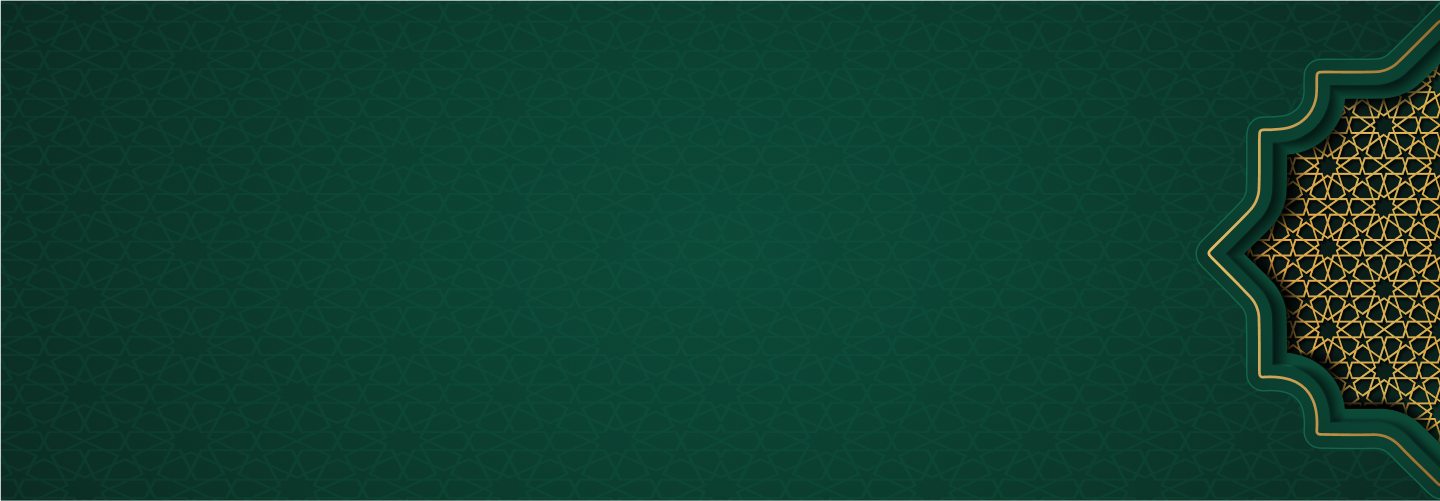
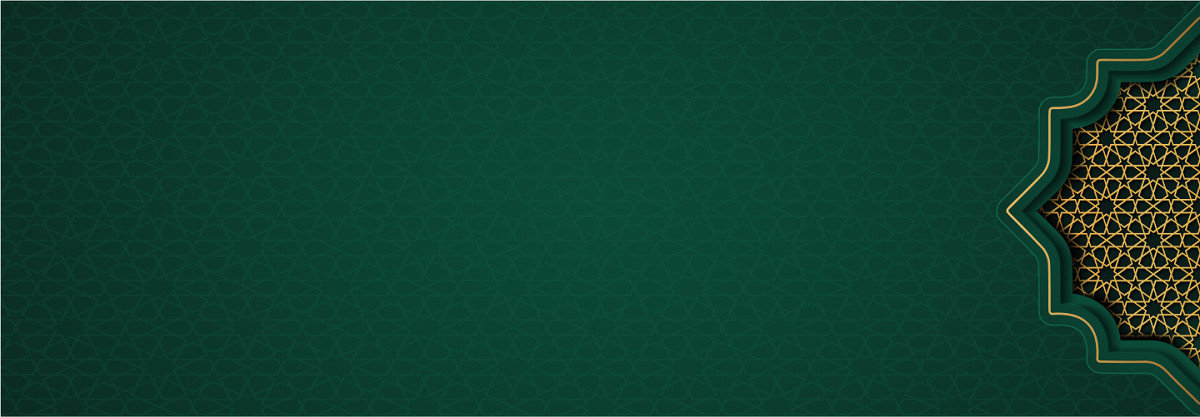
Invest page FAQ section added with responsive, Islamic page hero section done with responsive, capbay islamic done with responsive

Changed region(s): [[0.8942, 0.1871, 1.0, 0.8417]]

diff --git a/src/pages/investment-islamic/InvestmentIslamicHero.jsx b/src/pages/investment-islamic/InvestmentIslamicHero.jsx
@@ -1,0 +1,46 @@
+import { TbHeadset } from "react-icons/tb";
+import HeroBg from "../../assets/InvestIslamicHero.png";
+import Heading1 from "../../components/Heading1";
+import Heading2 from "../../components/Heading2";
+import IconButton from "../../components/IconButton";
+import PrimaryButton from "../../components/PrimaryButton";
+import SmallText from "../../components/SmallText";
+import Title from "../../components/Title";
+import Sheild from "../../icon/Sheild";
+import SectionLayout from "../../ui/SectionLayout";
+function InvestmentIslamicHero() {
+  return (
+    <div
+      className="bg-cover bg-right w-full tab:h-[450px]"
+      style={{ backgroundImage: `url(${HeroBg})` }}
+    >
+      <SectionLayout bg={"transparent"}>
+        <div className="w-3/5">
+          <Heading2 color={"text-white"}>FINTECH P2P Islamic</Heading2>
+          <Heading1 color={"text-[#4abc40]"}>
+            Shariah Option Available Now!
+          </Heading1>
+        </div>
+        <div className="w-3/4 sm:w-5/6 tab:w-3/5 py-5">
+          <Title color={"white"}>
+            Invest Responsibly, Aligning Beliefs with Smart Investment
+          </Title>
+          <div className="flex gap-2 items-center">
+            <Sheild />
+            <SmallText color={`[#4abc40]`}>
+              Regulated by Securities Commission Bangladesh
+            </SmallText>
+          </div>
+        </div>
+        <div className="flex gap-4 py-6 items-center">
+          <PrimaryButton bg={`accent`}>invest now</PrimaryButton>
+          <IconButton text={"contact us"} bg={`accent`}>
+            <TbHeadset className="font-semibold text-lg" />
+          </IconButton>
+        </div>
+      </SectionLayout>
+    </div>
+  );
+}
+
+export default InvestmentIslamicHero;

diff --git a/src/pages/investment-islamic/CapBayP2P.jsx b/src/pages/investment-islamic/CapBayP2P.jsx
@@ -1,0 +1,41 @@
+import SectionLayout from "../../ui/SectionLayout";
+import Peer from "../../assets/peer.png";
+import SubTitle from "../../components/SubTitle";
+import Text from "../../components/Text";
+
+function CapBayP2P() {
+  return (
+    <SectionLayout>
+      <div className="w-full flex flex-wrap sm:flex-nowrap items-center py-5 tab:py-8 px-4 tab:px-0">
+        <div className="bg-white shadow-allSide shadow-gray-200 rounded-md w-full sm:w-1/3 px-6 mb-4 sm:mb-0 sm:px-0">
+          <img
+            src={Peer}
+            alt="peer illustrator"
+            className="object-cover rounded-md m-auto"
+          />
+        </div>
+        <div className="w-full sm:w-2/3 flex justify-end">
+          <div className="px-2 sm:px-8 tab:px-0 tab:w-5/6">
+            <SubTitle
+              align={"text-center sm:text-left"}
+              color={`text-[#0c6304]`}
+            >
+              CapBay P2P Islamic
+            </SubTitle>
+            <Text align={"text-center sm:text-left"} padding={"py-2"}>
+              Your preferred P2P platform now offers a fully automated
+              Shariah-compliant option!
+            </Text>
+            <Text align={"text-center sm:text-left"} padding={"py-2"}>
+              Begin your investment journey with CapBay P2P Islamic today for a
+              fully Shariah-compliant portfolio aligned with ethical financial
+              principles and competitive returns.
+            </Text>
+          </div>
+        </div>
+      </div>
+    </SectionLayout>
+  );
+}
+
+export default CapBayP2P;

diff --git a/src/ui/Home/WhyFintech.jsx b/src/ui/Home/WhyFintech.jsx
@@ -26,7 +26,11 @@ function WhyFintech() {
                 <Webhook />
               </div>
             </div>
-            <Heading2 align={"text-center"} color={"white"} padding={"pt-2"}>
+            <Heading2
+              align={"text-center"}
+              color={"text-white"}
+              padding={"pt-2"}
+            >
               Technology-Driven
             </Heading2>
             <Text align={"text-center"} color={"white"} padding={"py-2"}>
@@ -41,7 +45,11 @@ function WhyFintech() {
                 <CircleThreePlus />
               </div>
             </div>
-            <Heading2 align={"text-center"} color={"white"} padding={"pt-2"}>
+            <Heading2
+              align={"text-center"}
+              color={"text-white"}
+              padding={"pt-2"}
+            >
               Trade-Related Assets
             </Heading2>
             <Text align={"text-center"} color={"white"} padding={"py-2"}>
@@ -55,7 +63,11 @@ function WhyFintech() {
                 <Elements />
               </div>
             </div>
-            <Heading2 align={"text-center"} color={"white"} padding={"pt-2"}>
+            <Heading2
+              align={"text-center"}
+              color={"text-white"}
+              padding={"pt-2"}
+            >
               Multi-Funder
             </Heading2>
             <Text align={"text-center"} color={"white"} padding={"py-2"}>

diff --git a/src/pages/investment/InvestProfiles.jsx b/src/pages/investment/InvestProfiles.jsx
@@ -21,7 +21,7 @@ function InvestProfiles() {
         </div>
         <div className="w-full sm:w-1/2 flex flex-col gap-4 justify-between h-full flex-1">
           <div className="bg-primary/10 rounded-md p-2.5 tab:px-6 tab:py-4">
-            <SubTitle padding={"py-0 tab:py-1"} color={"primary"}>
+            <SubTitle padding={"py-0 tab:py-1"} color={"text-primary"}>
               Conservative
             </SubTitle>
             <SubHeading font={"normal"}>
@@ -30,7 +30,7 @@ function InvestProfiles() {
             </SubHeading>
           </div>
           <div className="bg-primary/10 rounded-md p-2.5 tab:px-6 tab:py-4">
-            <SubTitle padding={"py-0 tab:py-1"} color={"primary"}>
+            <SubTitle padding={"py-0 tab:py-1"} color={"text-primary"}>
               Moderate
             </SubTitle>
             <SubHeading font={"normal"}>
@@ -38,7 +38,7 @@ function InvestProfiles() {
             </SubHeading>
           </div>
           <div className="bg-primary/10 rounded-md p-2.5 tab:px-6 tab:py-4">
-            <SubTitle padding={"py-0 tab:py-1"} color={"primary"}>
+            <SubTitle padding={"py-0 tab:py-1"} color={"text-primary"}>
               Aggressive
             </SubTitle>
             <SubHeading font={"normal"}>

diff --git a/src/pages/investment/SeamlessInvesting.jsx b/src/pages/investment/SeamlessInvesting.jsx
@@ -24,7 +24,7 @@ function SeamlessInvesting() {
               <CheckSquare />
             </div>
             <div>
-              <SubTitle padding={"py-0 sm:py-1"} color={"primary"}>
+              <SubTitle padding={"py-0 sm:py-1"} color={"text-primary"}>
                 Top up money
               </SubTitle>
               <SubHeading font={"normal"}>
@@ -37,7 +37,7 @@ function SeamlessInvesting() {
               <CheckSquare />
             </div>
             <div>
-              <SubTitle padding={"py-0 sm:py-1"} color={"primary"}>
+              <SubTitle padding={"py-0 sm:py-1"} color={"text-primary"}>
                 Select Auto Invest profile
               </SubTitle>
               <SubHeading font={"normal"}>
@@ -51,7 +51,7 @@ function SeamlessInvesting() {
               <CheckSquare />
             </div>
             <div>
-              <SubTitle padding={"py-0 sm:py-1"} color={"primary"}>
+              <SubTitle padding={"py-0 sm:py-1"} color={"text-primary"}>
                 Enjoy your returns
               </SubTitle>
               <SubHeading font={"normal"}>

diff --git a/src/pages/investment/Investment.jsx b/src/pages/investment/Investment.jsx
@@ -1,4 +1,8 @@
+import SubHeading from "../../components/SubHeading";
+import Title from "../../components/Title";
 import BlogContainer from "../../ui/BlogContainer";
+import FAQContainer from "../../ui/Home/FAQContainer";
+import SectionLayout from "../../ui/SectionLayout";
 import InvestmentHero from "./InvestmentHero";
 import InvestProfiles from "./InvestProfiles";
 import PeerToPeer from "./PeerToPeer";
@@ -14,6 +18,15 @@ function Investment() {
       <InvestProfiles />
       <SeamlessInvesting />
       <BlogContainer />
+      <SectionLayout>
+        <div className="w-11/12 tab:w-3/5 laptop:w-1/2 m-auto py-6">
+          <Title align={"text-center"}>Questions? We’re here to help</Title>
+          <SubHeading align={"text-center"} font={"normal"}>
+            Read our Frequently Asked Questions (FAQ) here:
+          </SubHeading>
+        </div>
+        <FAQContainer />
+      </SectionLayout>
     </>
   );
 }

diff --git a/src/components/PrimaryButton.jsx b/src/components/PrimaryButton.jsx
@@ -1,8 +1,12 @@
 import { GoArrowDownRight } from "react-icons/go";
 
-function PrimaryButton({ children }) {
+function PrimaryButton({ children, bg }) {
   return (
-    <button className="capitalize flex gap-2 items-center py-2 px-4 text-white bg-primary rounded-md text-sm sm:text-15[px] tab:text-base font-semibold">
+    <button
+      className={`capitalize flex gap-2 items-center py-2 px-4 text-white ${
+        bg ? `bg-${bg}` : "bg-primary"
+      } rounded-md text-sm sm:text-15[px] tab:text-base font-semibold`}
+    >
       <p>{children}</p>
       <GoArrowDownRight className="font-semibold text-lg" />
     </button>

diff --git a/src/components/IconButton.jsx b/src/components/IconButton.jsx
@@ -1,6 +1,10 @@
-function IconButton({ children, text }) {
+function IconButton({ children, text, bg }) {
   return (
-    <button className=" capitalize flex gap-2 items-center py-2 px-4 text-white bg-primary rounded-md text-sm sm:text-15[px] tab:text-base font-semibold">
+    <button
+      className={`capitalize flex gap-2 items-center py-2 px-4 text-white ${
+        bg ? `bg-${bg}` : "bg-primary"
+      } rounded-md text-sm sm:text-15[px] tab:text-base font-semibold`}
+    >
       <p>{text}</p>
       {children}
     </button>

diff --git a/src/ui/Home/ContactFAQ.jsx b/src/ui/Home/ContactFAQ.jsx
@@ -13,7 +13,7 @@ function ContactFAQ() {
         <div className="w-full tab:w-1/2 ">
           <Title align={"text-center tab:text-left"}>Questions?</Title>
           <div className="w-5/6 m-auto tab:m-0 pb-4 tab:pb-0">
-            <Heading1 align={"text-center tab:text-left"} color={"black"}>
+            <Heading1 align={"text-center tab:text-left"} color={"text-black"}>
               We&apos;re here to help
             </Heading1>
             <Text padding={"py-4"} align={"text-center tab:text-left"}>

diff --git a/src/pages/investment-islamic/InvestmentIslamic.jsx b/src/pages/investment-islamic/InvestmentIslamic.jsx
@@ -1,10 +1,12 @@
-import HeroBg from "../../assets/InvestIslamicHero.png";
+import CapBayP2P from "./CapBayP2P";
+import InvestmentIslamicHero from "./InvestmentIslamicHero";
+
 function InvestmentIslamic() {
   return (
-    <div
-      className="bg-cover w-full h-[400px]"
-      style={{ backgroundImage: `url(${HeroBg})` }}
-    ></div>
+    <>
+      <InvestmentIslamicHero />
+      <CapBayP2P />
+    </>
   );
 }
 

diff --git a/src/components/Heading2.jsx b/src/components/Heading2.jsx
@@ -1,7 +1,7 @@
 function Heading2({ children, color, align, padding }) {
   return (
     <h2
-      className={`${color ? `text-${color}` : "text-titleColor"} ${
+      className={`${color ? `${color}` : "text-titleColor"} ${
         align ? `${align}` : "text-left"
       } ${
         padding ? `${padding}` : "py-1"

diff --git a/src/components/Heading1.jsx b/src/components/Heading1.jsx
@@ -1,7 +1,7 @@
 function Heading1({ children, color, align, padding }) {
   return (
     <h1
-      className={`${color ? `text-${color}` : "text-primary"} ${
+      className={`${color ? `${color}` : "text-primary"} ${
         align ? `${align}` : "text-left"
       } ${
         padding ? `${padding}` : "py-1"
